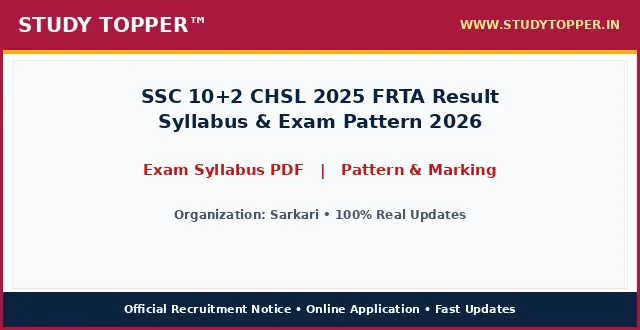
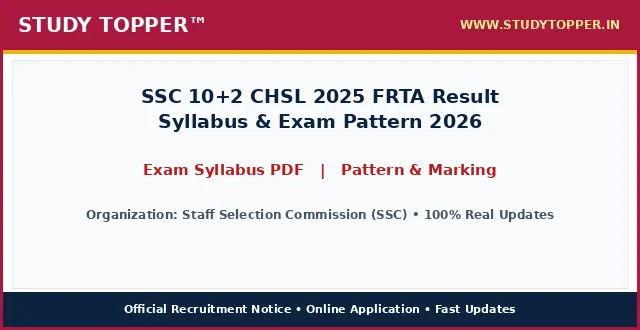
chore(lifecycle): daily auto-sort vacancies and update active dates

Changed region(s): [[0.125, 0.6364, 0.875, 0.6667]]

diff --git a/pages/ssc-chsl-2026-syllabus.html b/pages/ssc-chsl-2026-syllabus.html
@@ -987,12 +987,12 @@ ul.wp-block-latest-posts a:hover {
 <main class="site-main" id="main">
 <div class="gb-container gb-container-b39c368c">
 <h1 class="gb-headline gb-headline-e52a0102 gb-headline-text" style="font-size: 22px; font-weight: 700; color: #0000cd; text-align: left; margin: 8px 0 4px 0; line-height: 1.3; width: 100%; font-family: '-apple-system, BlinkMacSystemFont, 'Segoe UI', Roboto, 'Helvetica Neue', Arial, sans-serif', Times, serif, Hind, sans-serif;">SSC 10+2 CHSL 2025 FRTA Result Syllabus & Exam Pattern 2026</h1>
-<div class="gb-container gb-container-659bd175"><p style="color: #cd0808; font-weight: 700; font-size: 15px; margin: 2px 0 7px 0; text-align: left; font-family: '-apple-system, BlinkMacSystemFont, 'Segoe UI', Roboto, 'Helvetica Neue', Arial, sans-serif', Times, serif, Hind, sans-serif;">Post Date: August 22, 2026 11:58 AM</p></div>
-<p class="gb-headline gb-headline-550ae316 short_Details gb-headline-text" style="width: 100%; max-width: 100%; font-size: 16.8px; line-height: 1.55; color: #000000; text-align: justify; text-justify: inter-word; margin: 8px 0 14px 0; display: block; font-family: '-apple-system, BlinkMacSystemFont, 'Segoe UI', Roboto, 'Helvetica Neue', Arial, sans-serif', Times, serif, Hind, sans-serif;"><strong style="color: #0000cd;">Sarkari</strong> has officially outlined the detailed topic-wise <strong style="color: #cd0808;">SSC 10+2 CHSL 2025 FRTA Result Syllabus & Exam Pattern 2026</strong> for aspiring candidates. The syllabus architecture provides comprehensive clarity on subject weightage, section-wise question distribution, and marking criteria. Candidates preparing for the examination should align their preparation strategy with the core subjects including general aptitude and technical disciplines. Download the complete curriculum PDF below to master high-scoring chapters and maximize performance.</p>
+<div class="gb-container gb-container-659bd175"><p style="color: #cd0808; font-weight: 700; font-size: 15px; margin: 2px 0 7px 0; text-align: left; font-family: '-apple-system, BlinkMacSystemFont, 'Segoe UI', Roboto, 'Helvetica Neue', Arial, sans-serif', Times, serif, Hind, sans-serif;">Post Date: August 22, 2026 01:12 PM</p></div>
+<p class="gb-headline gb-headline-550ae316 short_Details gb-headline-text" style="width: 100%; max-width: 100%; font-size: 16.8px; line-height: 1.55; color: #000000; text-align: justify; text-justify: inter-word; margin: 8px 0 14px 0; display: block; font-family: '-apple-system, BlinkMacSystemFont, 'Segoe UI', Roboto, 'Helvetica Neue', Arial, sans-serif', Times, serif, Hind, sans-serif;"><strong style="color: #0000cd;">Staff Selection Commission (SSC)</strong> has officially outlined the detailed topic-wise <strong style="color: #cd0808;">SSC 10+2 CHSL 2025 FRTA Result Syllabus & Exam Pattern 2026</strong> for aspiring candidates. The syllabus architecture provides comprehensive clarity on subject weightage, section-wise question distribution, and marking criteria. Candidates preparing for the examination should align their preparation strategy with the core subjects including general aptitude and technical disciplines. Download the complete curriculum PDF below to master high-scoring chapters and maximize performance.</p>
 <div class="gb-container gb-container-9849916c"><div class="social-buttons-compact" style="display: flex; justify-content: flex-start; align-items: center; gap: 10px; margin: 10px 0 16px 0; width: 100%;"><a class="social-btn-compact wa" href="https://whatsapp.com/channel/0029Va9xyz" rel="noopener" style="background-color: #00d084; color: #ffffff; padding: 10px 18px; border-radius: 4px; text-decoration: none; font-weight: bold; font-size: 15.5px; display: inline-flex; align-items: center; justify-content: center; height: auto;" target="_blank">WhatsApp</a><a class="social-btn-compact tg" href="https://t.me/studytopperofficial" rel="noopener" style="background-color: #0088cc; color: #ffffff; padding: 10px 18px; border-radius: 4px; text-decoration: none; font-weight: bold; font-size: 15.5px; display: inline-flex; align-items: center; justify-content: center; height: auto;" target="_blank">Telegram</a></div></div>
 <div class="gb-container gb-container-f58e6ca1" style="border: 2px solid #5b032f; border-radius: 4px; overflow: hidden; margin: 15px 0 20px 0; background-color: #ffffff; width: 100%; box-sizing: border-box;">
 <h2 class="gb-headline gb-headline-2ca5a791 gb-headline-text" style="font-size: 16px; font-weight: 700; text-align: center; color: #ef0303; line-height: 1.3; padding: 6px 4px; margin: 0; background: #ffffff; font-family: '-apple-system, BlinkMacSystemFont, 'Segoe UI', Roboto, 'Helvetica Neue', Arial, sans-serif', Times, serif, Hind, sans-serif;">SSC 10+2 CHSL 2025 FRTA Result Syllabus & Exam Pattern 2026 &ndash; Latest Details &amp; Updates</h2>
-<h3 class="gb-headline gb-headline-7d5f86e8 gb-headline-text" style="font-size: 16px; font-weight: 600; text-align: center; color: #009703; line-height: 1.25; margin: 0; padding: 2px 4px 6px 4px; background: #ffffff; font-family: '-apple-system, BlinkMacSystemFont, 'Segoe UI', Roboto, 'Helvetica Neue', Arial, sans-serif', Times, serif, Hind, sans-serif;">Sarkari : Details &amp; Summary</h3>
+<h3 class="gb-headline gb-headline-7d5f86e8 gb-headline-text" style="font-size: 16px; font-weight: 600; text-align: center; color: #009703; line-height: 1.25; margin: 0; padding: 2px 4px 6px 4px; background: #ffffff; font-family: '-apple-system, BlinkMacSystemFont, 'Segoe UI', Roboto, 'Helvetica Neue', Arial, sans-serif', Times, serif, Hind, sans-serif;">Staff Selection Commission (SSC) : Details &amp; Summary</h3>
 <p class="gb-headline gb-headline-79adf169 gb-headline-text" style="margin: 0 0 6px 0; font-family: '-apple-system, BlinkMacSystemFont, 'Segoe UI', Roboto, 'Helvetica Neue', Arial, sans-serif', Times, serif, Hind, sans-serif; text-align: center; font-size: 18px; font-weight: 700;"><a href="/" style="color: #0000ff; text-decoration: underline;">StudyTopper.in</a></p>
 
 <style id="st-post-boxes-responsive-css">
@@ -1025,7 +1025,7 @@ ul.wp-block-latest-posts a:hover {
     <div style="background-color: #5b032f; color: #ffffff; padding: 8px 10px; font-size: 20px; font-weight: 700; text-align: center; font-family: '-apple-system, BlinkMacSystemFont, 'Segoe UI', Roboto, 'Helvetica Neue', Arial, sans-serif', Times, serif, Hind, sans-serif;">Notification &amp; Exam Dates</div>
     <div style="padding: 12px 14px; background-color: #ffffff;">
       <ul style="padding-left: 20px; margin: 0; list-style-type: disc; text-align: left; font-size: 14pt; line-height: 1.6; font-family: '-apple-system, BlinkMacSystemFont, 'Segoe UI', Roboto, 'Helvetica Neue', Arial, sans-serif', Times, serif, Hind, sans-serif;">
-        
+        <li><span style="font-size: 14pt;">Release Date : <strong>Published Officially</strong></span></li><li><span style="font-size: 14pt;">Status : <strong>Available Online</strong></span></li>
       </ul>
     </div>
   </div>
@@ -1034,7 +1034,7 @@ ul.wp-block-latest-posts a:hover {
     <div style="background-color: #5b032f; color: #ffffff; padding: 8px 10px; font-size: 20px; font-weight: 700; text-align: center; font-family: '-apple-system, BlinkMacSystemFont, 'Segoe UI', Roboto, 'Helvetica Neue', Arial, sans-serif', Times, serif, Hind, sans-serif;">Exam Mode &amp; Duration</div>
     <div style="padding: 12px 14px; background-color: #ffffff;">
       <ul style="padding-left: 20px; margin: 0; list-style-type: disc; text-align: left; font-size: 14pt; line-height: 1.6; font-family: '-apple-system, BlinkMacSystemFont, 'Segoe UI', Roboto, 'Helvetica Neue', Arial, sans-serif', Times, serif, Hind, sans-serif;">
-        <li><span style="font-size: 14pt;">Bihar Police BPSSC Sub Inspector SI Prohibition Result 2026 Advt. No. : <strong>03/2026</strong></span></li><li><span style="font-size: 14pt;">UP Scholarship Online Form 2026 : <strong>2027</strong></span></li>
+        <li><span style="font-size: 14pt;">Application Fee : <strong>0/- (No Fee Required)</strong></span></li>
       </ul>
       <div style="margin-top: 10px; font-size: 14pt; line-height: 1.5; color: #000000; border-top: 1px dashed #ccc; padding-top: 8px; font-family: '-apple-system, BlinkMacSystemFont, 'Segoe UI', Roboto, 'Helvetica Neue', Arial, sans-serif', Times, serif, Hind, sans-serif;">
         <strong>Mode of Payment / Access:</strong> Online via Net Banking, Debit Card, Credit Card, UPI or Free Candidate Portal.
@@ -1047,7 +1047,7 @@ ul.wp-block-latest-posts a:hover {
 <div class="st-grid-row" style="display: flex; flex-wrap: wrap; width: 100%; border-top: 2px solid #5b032f; margin: 0; padding: 0; box-sizing: border-box;">
   <!-- Left Col: Age Limits -->
   <div class="st-col-half st-col-border-right" style="box-sizing: border-box; vertical-align: top;">
-    <div style="background-color: #046132; color: #ffffff; padding: 8px 10px; font-size: 17px; font-weight: 700; text-align: center; font-family: '-apple-system, BlinkMacSystemFont, 'Segoe UI', Roboto, 'Helvetica Neue', Arial, sans-serif', Times, serif, Hind, sans-serif;">Sarkari : Age Limits As On 01 August 2026</div>
+    <div style="background-color: #046132; color: #ffffff; padding: 8px 10px; font-size: 17px; font-weight: 700; text-align: center; font-family: '-apple-system, BlinkMacSystemFont, 'Segoe UI', Roboto, 'Helvetica Neue', Arial, sans-serif', Times, serif, Hind, sans-serif;">Staff Selection Commission (SSC) : Age Limits As On 01/08/2026</div>
     <div style="padding: 12px 14px; background-color: #ffffff;">
       <ul style="padding-left: 20px; margin: 0; list-style-type: disc; text-align: left; font-size: 14pt; line-height: 1.6; font-family: '-apple-system, BlinkMacSystemFont, 'Segoe UI', Roboto, 'Helvetica Neue', Arial, sans-serif', Times, serif, Hind, sans-serif;">
         
@@ -1058,7 +1058,7 @@ ul.wp-block-latest-posts a:hover {
   <div class="st-col-half" style="box-sizing: border-box; vertical-align: top;">
     <div style="background-color: #f53c00; color: #ffffff; padding: 8px 10px; font-size: 20px; font-weight: 700; text-align: center; font-family: '-apple-system, BlinkMacSystemFont, 'Segoe UI', Roboto, 'Helvetica Neue', Arial, sans-serif', Times, serif, Hind, sans-serif;">Exam Scheme &amp; Marks</div>
     <div style="padding: 24px 10px; background-color: #ffffff; text-align: center;">
-      <span style="font-size: 28px; font-weight: 800; color: #000000; font-family: '-apple-system, BlinkMacSystemFont, 'Segoe UI', Roboto, 'Helvetica Neue', Arial, sans-serif', Times, serif, Hind, sans-serif;">545 Post</span>
+      <span style="font-size: 28px; font-weight: 800; color: #000000; font-family: '-apple-system, BlinkMacSystemFont, 'Segoe UI', Roboto, 'Helvetica Neue', Arial, sans-serif', Times, serif, Hind, sans-serif;">Various Posts</span>
     </div>
   </div>
 </div>
@@ -1079,9 +1079,9 @@ ul.wp-block-latest-posts a:hover {
 <th style="background-color: #f53c00; color: #ffffff; padding: 6px 10px; text-align: center; border: 1px solid #d35400; font-size: 15px; font-weight: 700; font-family: '-apple-system, BlinkMacSystemFont, 'Segoe UI', Roboto, 'Helvetica Neue', Arial, sans-serif', Times, serif, Hind, sans-serif;">Detailed Topic Syllabus &amp; Eligibility</th>
 </tr>
 <tr>
-<td style="padding: 8px; border: 1px solid #ddd; font-weight: bold;">Sarkari Recruitment</td>
-<td style="padding: 8px; border: 1px solid #ddd; text-align: center; font-weight: bold;">545 Post</td>
-<td style="padding: 8px; border: 1px solid #ddd;">Please refer to the official notification linked below for detailed educational qualifications.</td>
+<td style="padding: 8px; border: 1px solid #ddd; font-weight: bold;">SSC 10+2 CHSL 2025 FRTA Result Syllabus & Exam Pattern 2026</td>
+<td style="padding: 8px; border: 1px solid #ddd; text-align: center; font-weight: bold;">Various Posts</td>
+<td style="padding: 8px; border: 1px solid #ddd;">Passed prescribed Educational Qualification from Any Recognized Board / University in India. Read full official notification for post-wise eligibility criteria.</td>
 </tr>
 </tbody>
 </table>
@@ -1093,7 +1093,7 @@ ul.wp-block-latest-posts a:hover {
 <table style="border-collapse: collapse; width: 100%;">
 <tbody>
 <tr>
-<td style="width: 100%; text-align: center;"><span style="background-color: #000080; color: #ffffff; font-size: 14pt; font-weight: bold; display: block; padding: 6px;"> Preparation Strategy &amp; Detailed Syllabus Guidelines for Sarkari </span></td>
+<td style="width: 100%; text-align: center;"><span style="background-color: #000080; color: #ffffff; font-size: 14pt; font-weight: bold; display: block; padding: 6px;"> Preparation Strategy &amp; Detailed Syllabus Guidelines for Staff Selection Commission (SSC) </span></td>
 </tr>
 <tr>
 <td style="width: 100%;"><ol style="margin:0; padding-left:18px; text-align: left !important; list-style-position: outside !important"><li style="margin-bottom:6px; text-align: left !important;">Scroll down to the 'Important Links' section on this page.</li><li style="margin-bottom:6px; text-align: left !important;">Click on the direct link to download/check your status.</li><li style="margin-bottom:6px; text-align: left !important;">Enter your required login credentials such as Registration Number, Roll Number, or Date of Birth.</li><li style="margin-bottom:6px; text-align: left !important;">Click on submit to view your status.</li><li style="margin-bottom:6px; text-align: left !important;">Download and take a printout for future reference.</li></ol></td>
@@ -1104,7 +1104,7 @@ ul.wp-block-latest-posts a:hover {
 <table style="border-collapse: collapse; width: 100%;">
 <tbody>
 <tr>
-<td style="width: 100%; text-align: center;"><span style="background-color: #000080; color: #ffffff; font-size: 14pt;"><strong><span style="color: #ffffff;"> Sarkari Examination 2026 : Mode Of Selection </span></strong></span></td>
+<td style="width: 100%; text-align: center;"><span style="background-color: #000080; color: #ffffff; font-size: 14pt;"><strong><span style="color: #ffffff;"> Staff Selection Commission (SSC) Examination 2026 : Mode Of Selection </span></strong></span></td>
 </tr>
 <tr>
 <td style="width: 100%;">
@@ -1147,7 +1147,7 @@ ul.wp-block-latest-posts a:hover {
 <span style="font-size: 19px; font-weight: 800; color: #000000; font-family: '-apple-system, BlinkMacSystemFont, 'Segoe UI', Roboto, 'Helvetica Neue', Arial, sans-serif', Times, serif, Hind, sans-serif;">Download Detailed Syllabus PDF</span>
 </td>
 <td style="width: 50%; padding: 14px 16px; text-align: center;">
-<span style="font-size: 20px; font-weight: 800; font-family: '-apple-system, BlinkMacSystemFont, 'Segoe UI', Roboto, 'Helvetica Neue', Arial, sans-serif', Times, serif, Hind, sans-serif;"><a href="" aria-label="Click Here for Download Detailed Syllabus PDF - SSC 10+2 CHSL 2025 FRTA Result Syllabus & Exam Pattern 2026" rel="noopener noreferrer" style="color: #0000ef; font-weight: 800; text-decoration: none;" target="_blank">Click Here</a></span>
+<span style="font-size: 20px; font-weight: 800; font-family: '-apple-system, BlinkMacSystemFont, 'Segoe UI', Roboto, 'Helvetica Neue', Arial, sans-serif', Times, serif, Hind, sans-serif;"><a href="https://studytopper.in" aria-label="Click Here for Download Detailed Syllabus PDF - SSC 10+2 CHSL 2025 FRTA Result Syllabus & Exam Pattern 2026" rel="noopener noreferrer" style="color: #0000ef; font-weight: 800; text-decoration: none;" target="_blank">Click Here</a></span>
 </td>
 </tr>
 <tr style="border-bottom: 1px solid #000000; background-color: #fff37a;">
@@ -1160,10 +1160,10 @@ ul.wp-block-latest-posts a:hover {
 </tr>
 <tr style=" background-color: #fff37a;">
 <td style="width: 50%; padding: 14px 16px; border-right: 1px solid #000000; text-align: center;">
-<span style="font-size: 19px; font-weight: 800; color: #000000; font-family: '-apple-system, BlinkMacSystemFont, 'Segoe UI', Roboto, 'Helvetica Neue', Arial, sans-serif', Times, serif, Hind, sans-serif;">Sarkari Website</span>
+<span style="font-size: 19px; font-weight: 800; color: #000000; font-family: '-apple-system, BlinkMacSystemFont, 'Segoe UI', Roboto, 'Helvetica Neue', Arial, sans-serif', Times, serif, Hind, sans-serif;">Staff Selection Commission (SSC) Website</span>
 </td>
 <td style="width: 50%; padding: 14px 16px; text-align: center;">
-<span style="font-size: 20px; font-weight: 800; font-family: '-apple-system, BlinkMacSystemFont, 'Segoe UI', Roboto, 'Helvetica Neue', Arial, sans-serif', Times, serif, Hind, sans-serif;"><a href="" aria-label="Click Here for Sarkari Website - SSC 10+2 CHSL 2025 FRTA Result Syllabus & Exam Pattern 2026" rel="noopener noreferrer" style="color: #0000ef; font-weight: 800; text-decoration: none;" target="_blank">Click Here</a></span>
+<span style="font-size: 20px; font-weight: 800; font-family: '-apple-system, BlinkMacSystemFont, 'Segoe UI', Roboto, 'Helvetica Neue', Arial, sans-serif', Times, serif, Hind, sans-serif;"><a href="https://studytopper.in" aria-label="Click Here for Staff Selection Commission (SSC) Website - SSC 10+2 CHSL 2025 FRTA Result Syllabus & Exam Pattern 2026" rel="noopener noreferrer" style="color: #0000ef; font-weight: 800; text-decoration: none;" target="_blank">Click Here</a></span>
 </td>
 </tr>
 </tbody>
@@ -1178,7 +1178,7 @@ ul.wp-block-latest-posts a:hover {
     <p style="margin: 0 0 4px 0;"><strong style="color: #000080;">Q1. What is the exam pattern for SSC 10+2 CHSL 2025 FRTA Result Syllabus & Exam Pattern 2026?</strong></p>
 <p style="margin: 0 0 16px 0; color: #333333; line-height: 1.6;">Ans. The exam consists of Computer Based Tests / Written Exam covering relevant subjects, general studies, reasoning, and technical subjects as detailed above.</p><p style="margin: 0 0 4px 0;"><strong style="color: #000080;">Q2. Is there negative marking in SSC 10+2 CHSL 2025 FRTA Result Syllabus & Exam Pattern 2026?</strong></p>
 <p style="margin: 0 0 16px 0; color: #333333; line-height: 1.6;">Ans. Yes, negative marking is applicable as per the official recruitment rules (typically 1/3rd or 1/4th mark deduction per wrong answer).</p><p style="margin: 0 0 4px 0;"><strong style="color: #000080;">Q3. How to download SSC 10+2 CHSL 2025 FRTA Result Syllabus & Exam Pattern 2026 PDF in Hindi / English?</strong></p>
-<p style="margin: 0 0 16px 0; color: #333333; line-height: 1.6;">Ans. Click on the 'Download Syllabus PDF' link in the Important Links table to get the complete official syllabus booklet.</p><p style="margin: 0 0 4px 0;"><strong style="color: #000080;">Q4. What is the total duration of the examination for Sarkari?</strong></p>
+<p style="margin: 0 0 16px 0; color: #333333; line-height: 1.6;">Ans. Click on the 'Download Syllabus PDF' link in the Important Links table to get the complete official syllabus booklet.</p><p style="margin: 0 0 4px 0;"><strong style="color: #000080;">Q4. What is the total duration of the examination for Staff Selection Commission (SSC)?</strong></p>
 <p style="margin: 0 0 16px 0; color: #333333; line-height: 1.6;">Ans. Standard test duration ranges from 90 to 120 minutes depending on the paper scheme.</p><p style="margin: 0 0 4px 0;"><strong style="color: #000080;">Q5. What are the best preparation tips for SSC 10+2 CHSL 2025 FRTA Result Syllabus & Exam Pattern 2026?</strong></p>
 <p style="margin: 0 0 0 0; color: #333333; line-height: 1.6;">Ans. Focus on understanding the syllabus weightage, solving previous years' questions, and attempting regular mock tests.</p>
   </div>
